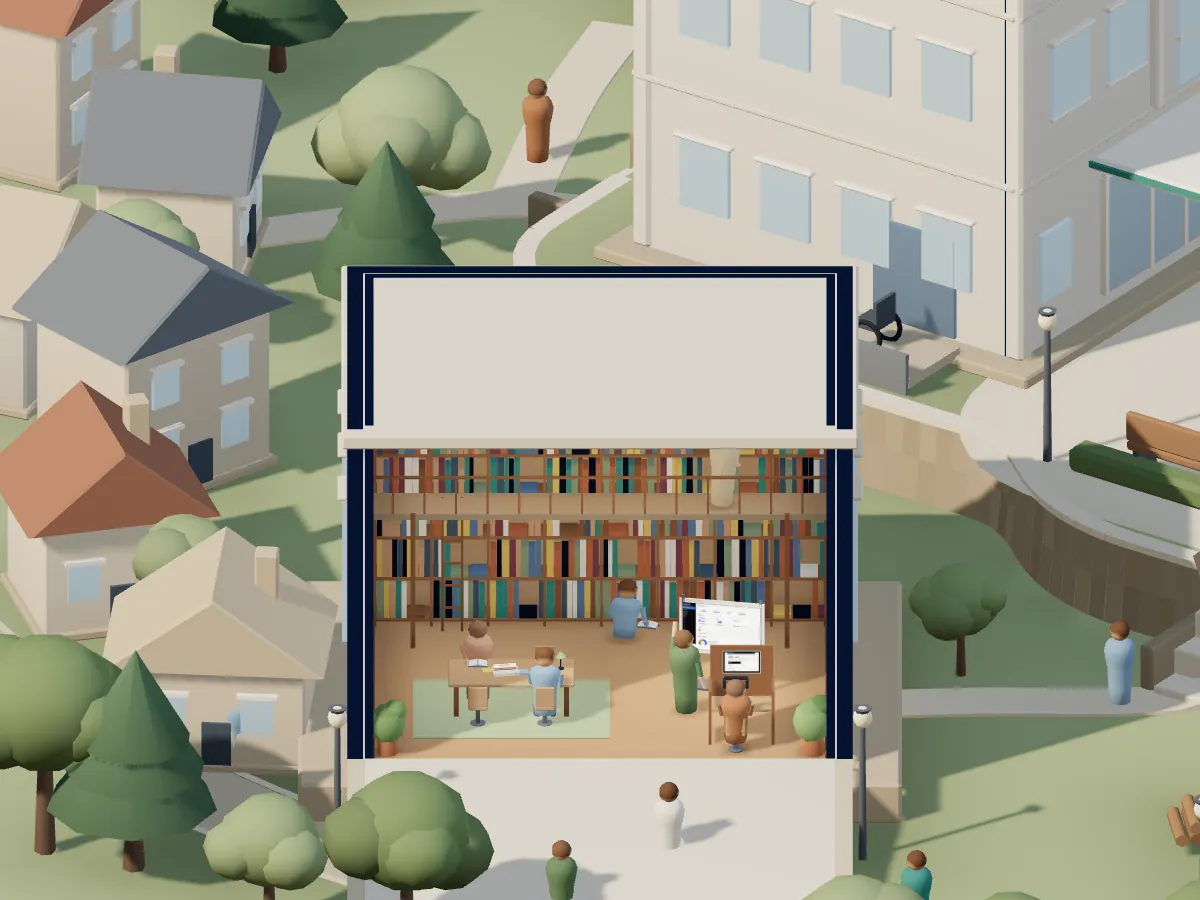
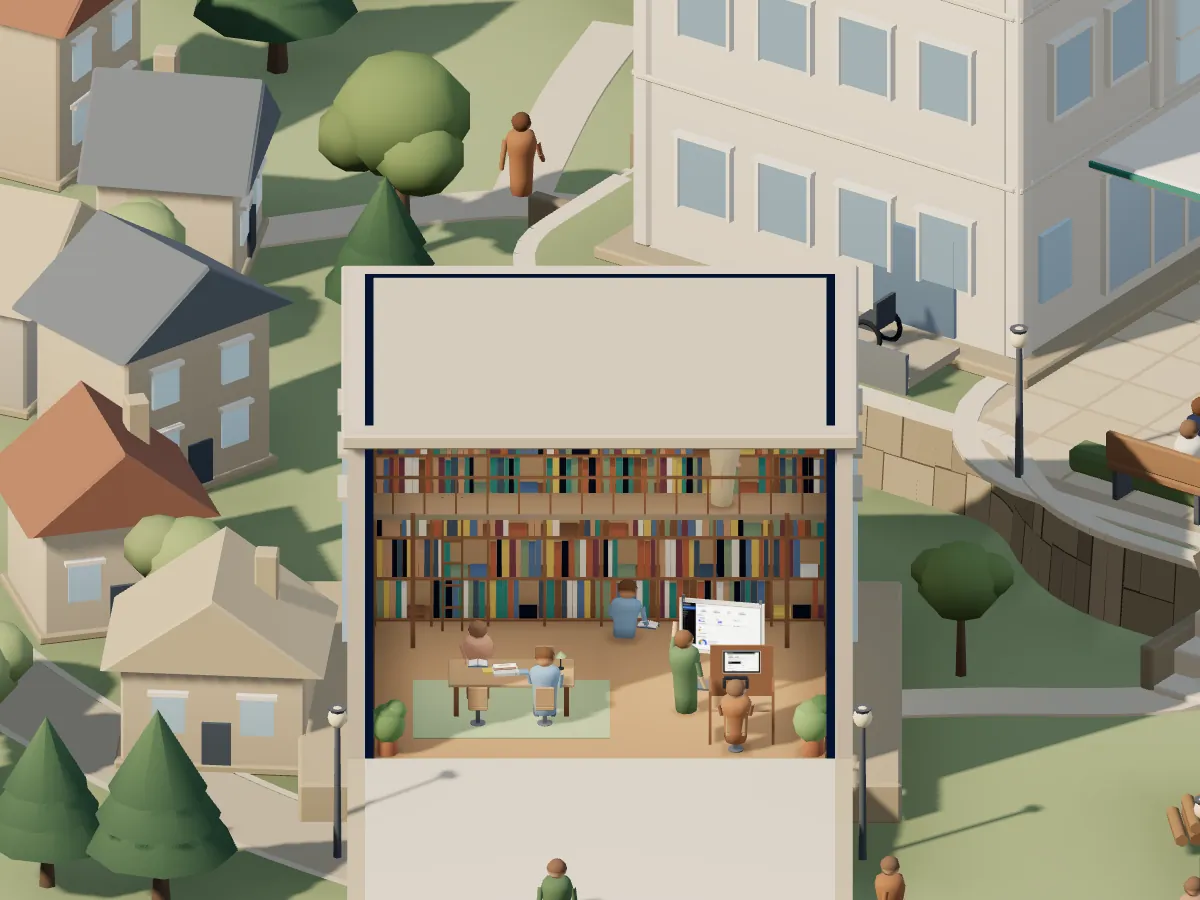
wip(top): 「ひらく町」磨き込み 下のもやの帯・輪が残る不具合・最初の画像の出し分け・中の絵の撮り直し
- スマホの最初の画面の下に、時刻ごとの空の色のもやの帯(島が浮かんで見える)
- 押したときの輪を 0.65 秒で必ず消す
- 最初の画像を 1000 幅と 1600 幅の srcset に(スマホが最初に読む画像 177KB → 93KB)
- 時刻の切り替えで空が白く抜けないように層の重ね方を直す
- 中の絵と閉じた絵を中の第3回の明るさで撮り直す。展望台の灯りが隣の壁を照らさないように

Claude-Session: https://claude.ai/code/session_016dwt5JPBcjN3XLYgLUEaNS

diff --git a/proto/top-ad/hiraku2/live.js b/proto/top-ad/hiraku2/live.js
@@ -48,6 +48,8 @@ function ring(r, y0, y1) { const o = []; for (let i = 0; i < 12; i++) { const a 
 /* 中の灯り: 建物の中ほど(前へ出しすぎると、ひらいた前の地面が照らされすぎる)。小さな建物ほど弱く */
 function inLightOf(id) {
   const b = BOXES[id], h = b.h || 1;
+  // 展望台は、塔の中だけを照らす(最上階は中の形が自分の灯りを持つ。遠くまで届くと、夕方と夜に隣の病院の壁が明るく浮く)
+  if (b.shape === 'tower') return { p: new THREE.Vector3(0, h * .42, 0), dist: 1.5, k: .3 };
   return { p: new THREE.Vector3(0, h * .62, (b.d || 1) * .08), dist: Math.max(2.2, Math.max(b.w, h) * 1.3), k: clamp((b.w * (b.h || .6)) / 9.3, .22, 1) };
 }
 
